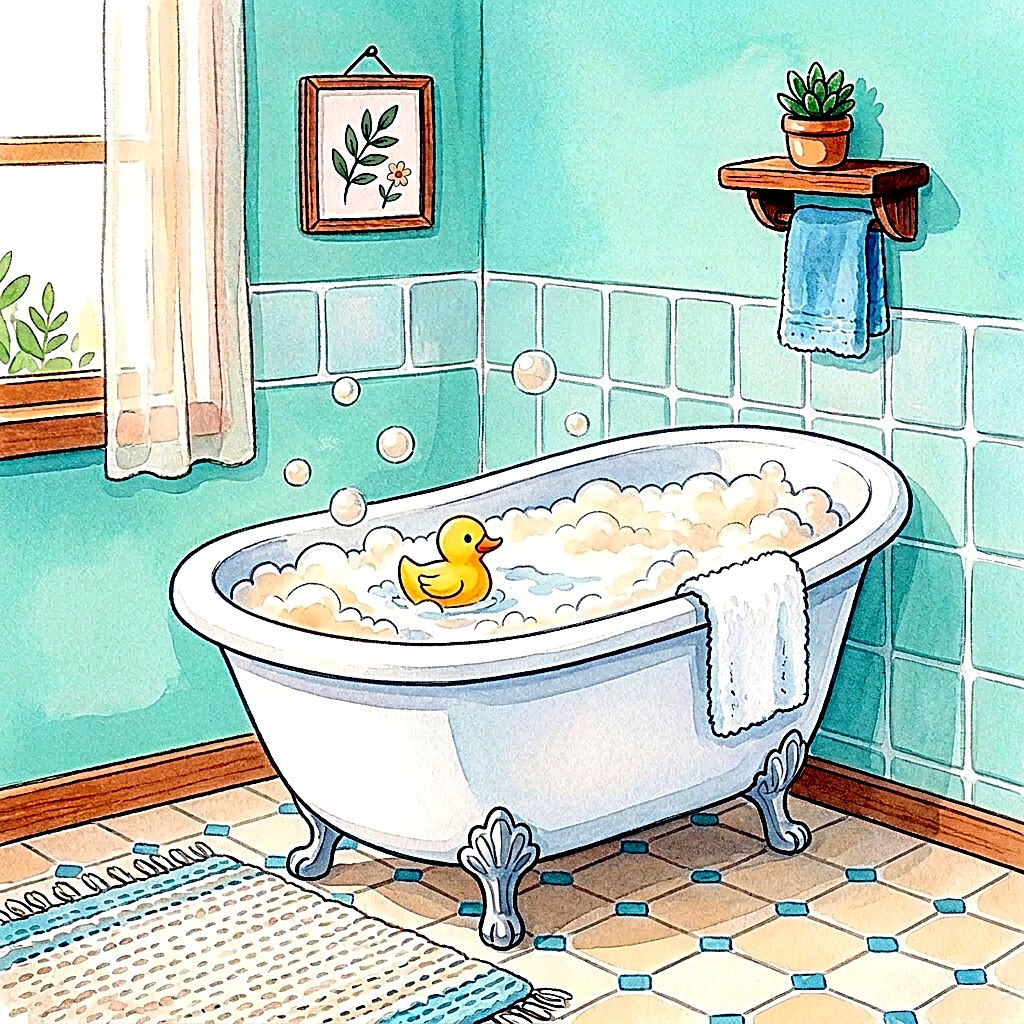
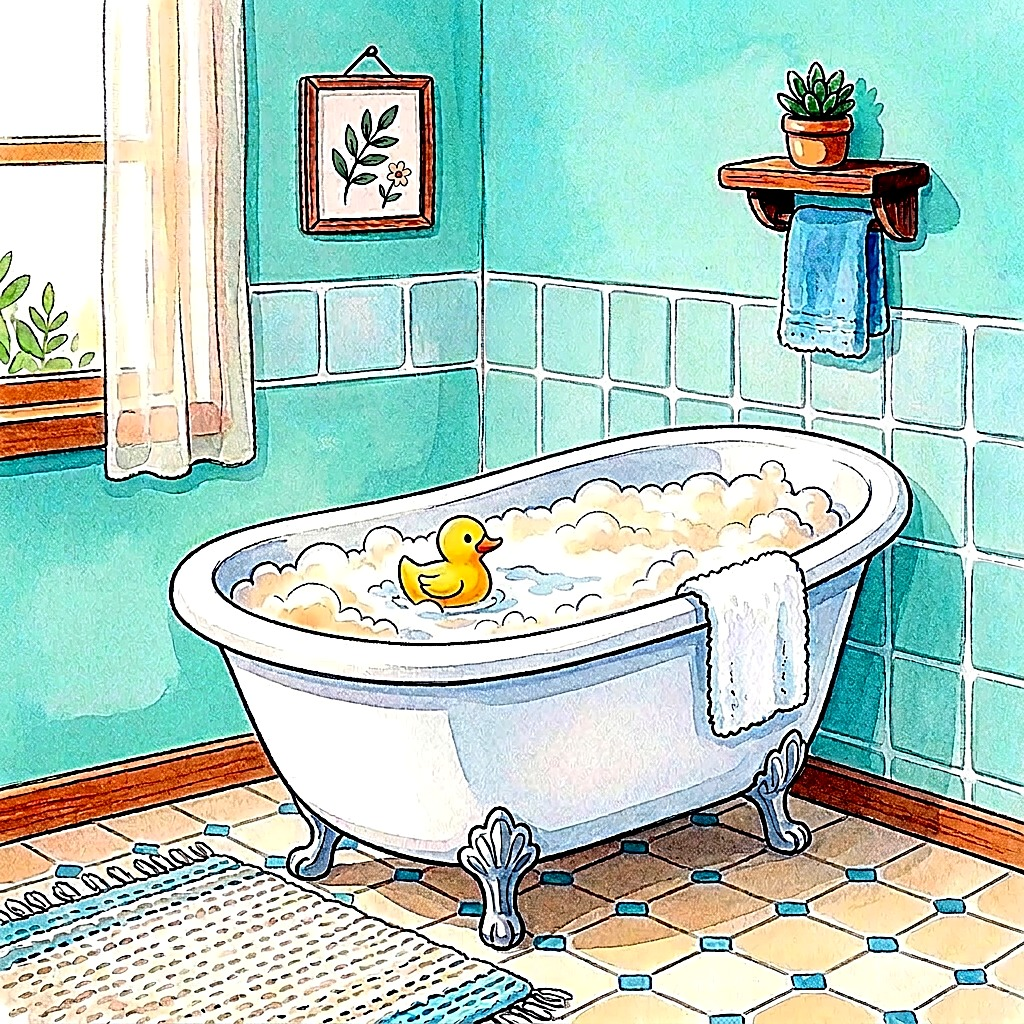
Bath picture: no bubbles floating in the air (PROMPTS: nothing floating)
Generated by agy from the previous picture; Lens: no exact matches on the raw and final file.

diff --git a/output/sl-vsakdan.html b/output/sl-vsakdan.html
@@ -414,11 +414,11 @@
     <svg class="rt-sky" viewBox="0 0 210 297" preserveAspectRatio="none" aria-hidden="true"><g fill="#FFF8DC"><circle cx="69.1" cy="137.9" r="0.35" opacity="0.49"/><circle cx="112.3" cy="177.7" r="0.35" opacity="0.90"/><circle cx="46.8" cy="125.9" r="0.9" opacity="0.48"/><circle cx="21.5" cy="188.5" r="0.35" opacity="0.92"/><circle cx="131.6" cy="217.9" r="0.35" opacity="0.74"/><circle cx="83.9" cy="290.6" r="0.35" opacity="0.73"/><circle cx="30.2" cy="187.5" r="0.35" opacity="0.74"/><circle cx="117.3" cy="236.2" r="0.35" opacity="0.74"/><circle cx="133.3" cy="178.9" r="0.35" opacity="0.73"/><circle cx="129.3" cy="201.8" r="0.9" opacity="0.84"/><circle cx="165.1" cy="239.3" r="0.5" opacity="0.49"/><circle cx="64.3" cy="201.6" r="0.7" opacity="0.81"/><circle cx="61.7" cy="291.3" r="0.35" opacity="0.71"/><circle cx="36.7" cy="173.3" r="0.9" opacity="0.66"/><circle cx="199.3" cy="124.4" r="0.7" opacity="0.62"/><circle cx="74.4" cy="201.9" r="0.9" opacity="0.48"/><circle cx="22.1" cy="159.9" r="0.35" opacity="0.48"/><circle cx="146.1" cy="229.7" r="0.9" opacity="0.59"/><circle cx="81.7" cy="233.7" r="0.35" opacity="0.92"/><circle cx="75.5" cy="223.0" r="0.9" opacity="0.48"/><circle cx="159.7" cy="133.9" r="0.5" opacity="0.65"/><circle cx="190.0" cy="201.9" r="0.5" opacity="0.67"/><circle cx="59.8" cy="186.8" r="0.7" opacity="0.79"/><circle cx="80.6" cy="152.7" r="0.35" opacity="0.54"/><circle cx="50.3" cy="153.2" r="0.9" opacity="0.87"/><circle cx="40.2" cy="162.2" r="0.5" opacity="0.66"/><circle cx="78.3" cy="214.8" r="0.5" opacity="0.80"/><circle cx="108.2" cy="224.3" r="0.35" opacity="0.68"/><circle cx="180.7" cy="286.1" r="0.9" opacity="0.65"/><circle cx="83.4" cy="199.1" r="0.9" opacity="0.48"/><circle cx="16.7" cy="148.6" r="0.5" opacity="0.50"/><circle cx="125.5" cy="128.9" r="0.5" opacity="0.72"/><circle cx="196.6" cy="223.5" r="0.35" opacity="0.89"/><circle cx="128.3" cy="137.5" r="0.7" opacity="0.93"/><circle cx="125.9" cy="197.7" r="0.35" opacity="0.87"/><circle cx="205.6" cy="196.2" r="0.9" opacity="0.61"/><circle cx="32.4" cy="248.7" r="0.7" opacity="0.69"/><circle cx="144.2" cy="205.5" r="0.5" opacity="0.93"/><circle cx="110.8" cy="137.1" r="0.35" opacity="0.83"/><circle cx="63.8" cy="228.9" r="0.35" opacity="0.80"/><circle cx="56.3" cy="177.8" r="0.5" opacity="0.63"/><circle cx="48.4" cy="210.2" r="0.7" opacity="0.77"/><circle cx="128.1" cy="255.9" r="0.5" opacity="0.85"/><circle cx="169.9" cy="246.9" r="0.5" opacity="0.55"/><circle cx="103.5" cy="245.2" r="0.35" opacity="0.85"/><circle cx="99.3" cy="145.8" r="0.7" opacity="0.67"/></g></svg>
     <div class="rt-grid" style="grid-template-rows: 14mm repeat(18, minmax(0, 1fr));">
       <div class="rt-header"><div class="rt-title">SPANJE</div></div>
-      <div class="rt-pic pic-left" style="--step: #A855F7; --bg: #C7F0E8; --ink: #6A3BAA; grid-row: 2 / span 4;">
+      <div class="rt-pic pic-left" style="--step: #A855F7; --bg: #C0F2EC; --ink: #6A3BAA; grid-row: 2 / span 4;">
         <img src="../images/bath.jpg" alt="Kopanje" />
         <div class="rt-num">1</div>
       </div>
-      <div class="rt-card card-left" style="--step: #A855F7; --bg: #C7F0E8; --ink: #6A3BAA; grid-row: 3 / span 2;">
+      <div class="rt-card card-left" style="--step: #A855F7; --bg: #C0F2EC; --ink: #6A3BAA; grid-row: 3 / span 2;">
         <div class="rt-text">
           <div class="rt-label">KOPANJE</div>
           <div class="rt-time"><span class="blank"></span>:<span class="blank"></span></div>

diff --git a/output/en-example.html b/output/en-example.html
@@ -425,11 +425,11 @@
         </div>
         <div class="rt-check"></div>
       </div>
-      <div class="rt-pic pic-right" style="--step: #0D9488; --bg: #AFEAD6; --ink: #155E6D; grid-row: 4 / span 4;">
+      <div class="rt-pic pic-right" style="--step: #0D9488; --bg: #A1EBD7; --ink: #155E6D; grid-row: 4 / span 4;">
         <img src="../images/bath.jpg" alt="Bath time" />
         <div class="rt-num">2</div>
       </div>
-      <div class="rt-card card-right" style="--step: #0D9488; --bg: #AFEAD6; --ink: #155E6D; grid-row: 5 / span 2;">
+      <div class="rt-card card-right" style="--step: #0D9488; --bg: #A1EBD7; --ink: #155E6D; grid-row: 5 / span 2;">
         <div class="rt-text">
           <div class="rt-label">BATH TIME</div>
           <div class="rt-time"><span class="blank"></span>:<span class="blank"></span></div>

diff --git a/output/sl-primer.html b/output/sl-primer.html
@@ -414,11 +414,11 @@
         </div>
         <div class="rt-check"></div>
       </div>
-      <div class="rt-pic pic-right" style="--step: #0D9488; --bg: #AFEAD6; --ink: #155E6D; grid-row: 4 / span 4;">
+      <div class="rt-pic pic-right" style="--step: #0D9488; --bg: #A1EBD7; --ink: #155E6D; grid-row: 4 / span 4;">
         <img src="../images/bath.jpg" alt="Okopaj se" />
         <div class="rt-num">2</div>
       </div>
-      <div class="rt-card card-right" style="--step: #0D9488; --bg: #AFEAD6; --ink: #155E6D; grid-row: 5 / span 2;">
+      <div class="rt-card card-right" style="--step: #0D9488; --bg: #A1EBD7; --ink: #155E6D; grid-row: 5 / span 2;">
         <div class="rt-text">
           <div class="rt-label">OKOPAJ SE</div>
           <div class="rt-time"><span class="blank"></span>:<span class="blank"></span></div>

diff --git a/web/data.js b/web/data.js
@@ -868,7 +868,7 @@ window.SHEET_DATA = {
  }
 };
 window.SHEET_EDGES = {
-  "bath": ["#C7F0E8", "#AFEAD6"],
+  "bath": ["#C0F2EC", "#A1EBD7"],
   "breakfast": ["#FECD89", "#FFDC9B"],
   "brush-teeth": ["#CFF2E5", "#BBE8D4"],
   "care": ["#ADE2C5", "#BEE9D0"],
